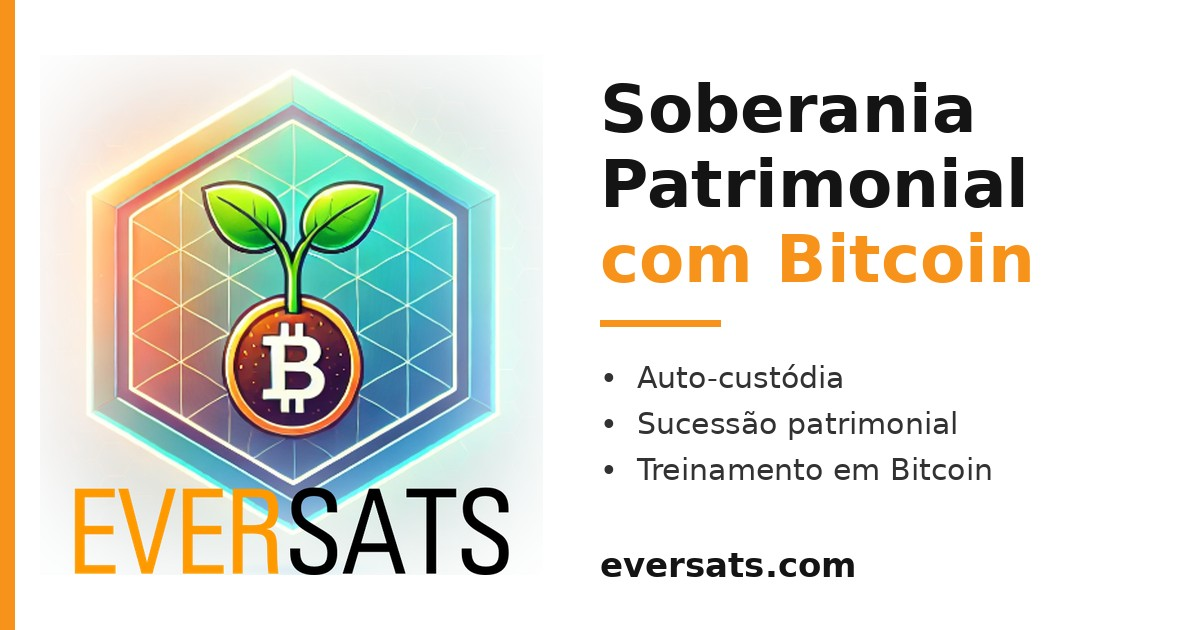
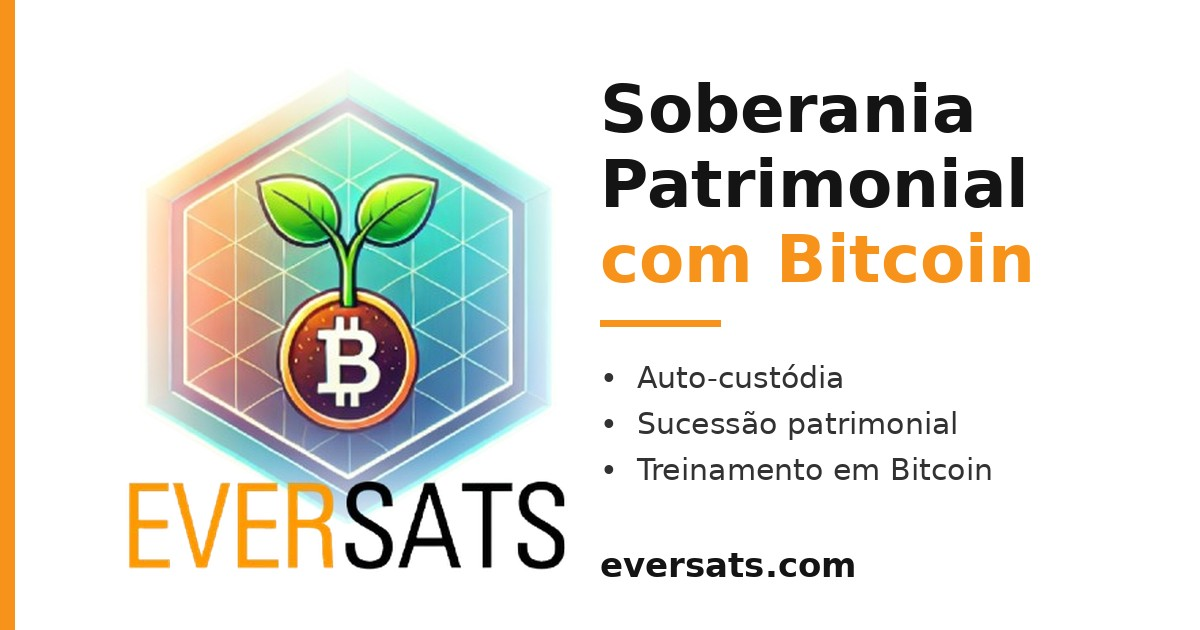
Add files via upload

Changed region(s): [[0.0308, 0.1206, 0.4933, 0.9349]]

diff --git a/faq.html b/faq.html
@@ -19,7 +19,7 @@
 <script type="application/ld+json">{"@context": "https://schema.org", "@type": "FAQPage", "mainEntity": [{"@type": "Question", "name": "O que é Bitcoin?", "acceptedAnswer": {"@type": "Answer", "text": "O Bitcoin é um dinheiro digital descentralizado que permite enviar valor diretamente entre pessoas, sem intermediários. Sua oferta é limitada a 21 milhões de unidades."}}, {"@type": "Question", "name": "O que é auto-custódia?", "acceptedAnswer": {"@type": "Answer", "text": "É guardar você mesmo as chaves privadas do seu Bitcoin, em carteiras pessoais, em vez de deixá-lo sob a guarda de uma corretora. Você ganha controle, privacidade e portabilidade, e assume a responsabilidade de protegê-lo."}}, {"@type": "Question", "name": "Qual a diferença entre deixar na corretora e guardar em carteira própria?", "acceptedAnswer": {"@type": "Answer", "text": "Na corretora, você tem um saldo e depende da empresa para acessá-lo. Na carteira própria, você controla as chaves e ninguém precisa autorizar seus movimentos. Em contrapartida, se perder as chaves, não há a quem recorrer."}}, {"@type": "Question", "name": "O que é seed phrase e por que nunca devo compartilhá-la?", "acceptedAnswer": {"@type": "Answer", "text": "É a sequência de palavras que permite recuperar sua carteira. Quem a tiver controla seu Bitcoin. Por isso, nunca a envie a ninguém. A EverSats jamais pede essa informação."}}, {"@type": "Question", "name": "Como garantir a segurança do meu Bitcoin?", "acceptedAnswer": {"@type": "Answer", "text": "Entendendo a tecnologia e usando boas práticas: carteira de hardware, backup da seed phrase guardado com segurança, teste de recuperação e, quando fizer sentido, multisig."}}, {"@type": "Question", "name": "O que é multisig?", "acceptedAnswer": {"@type": "Answer", "text": "É uma carteira que exige mais de uma assinatura para autorizar uma transação, o que reduz o risco de perda ou roubo de uma única chave."}}, {"@type": "Question", "name": "Por que planejar a sucessão do meu Bitcoin?", "acceptedAnswer": {"@type": "Answer", "text": "Porque, se só você sabe acessar o patrimônio, ele pode ficar inacessível à sua família quando você não puder mais fazê-lo. Um plano de sucessão organiza o acesso dos herdeiros com segurança."}}, {"@type": "Question", "name": "A EverSats tem acesso aos meus bitcoins?", "acceptedAnswer": {"@type": "Answer", "text": "Não. Você opera suas carteiras, e nós orientamos. Nunca pedimos nem guardamos suas chaves."}}, {"@type": "Question", "name": "A EverSats recomenda investimentos?", "acceptedAnswer": {"@type": "Answer", "text": "Não. Nosso trabalho é educacional e de consultoria em segurança, sem recomendações de compra ou venda e sem promessas de ganho."}}, {"@type": "Question", "name": "Como a EverSats pode ajudar?", "acceptedAnswer": {"@type": "Answer", "text": "Com treinamento em Bitcoin, consultoria em auto-custódia e plano de sucessão patrimonial, para todos os níveis de experiência. Fale conosco pelo WhatsApp ou pelo formulário."}}]}</script></head>
 <body>
 <header class="topbar"><div class="container">
-<a class="brand" href="/"><img src="logo-icon.png" alt="" width="40" height="40"><span>Ever<b>Sats</b></span></a>
+<a class="brand" href="/"><img src="logo-icon.png" alt="" width="59" height="56"><span><b>EVER</b>SATS</span></a>
 <ul class="menu"><li><a href="/#servicos">Serviços</a></li><li><a href="/#como-funciona">Como funciona</a></li><li><a href="/#sobre">Sobre</a></li><li><a href="blog.html">Blog</a></li><li><a href="faq.html">FAQ</a></li>
 <li><a class="btn" href="https://wa.me/5535999374642?text=Ol%C3%A1%2C%20vim%20pelo%20site%20da%20EverSats" target="_blank" rel="noopener">Agendar conversa</a></li></ul></div></header>
 <section class="pagehero"><div class="container"><span class="eyebrow">FAQ</span><h1>Perguntas frequentes</h1><p>Esclareça as principais dúvidas sobre Bitcoin, auto-custódia e os serviços da EverSats.</p></div></section><section class="section-padding"><div class="container faq"><details><summary>O que é Bitcoin?</summary><p>O Bitcoin é um dinheiro digital descentralizado que permite enviar valor diretamente entre pessoas, sem intermediários. Sua oferta é limitada a 21 milhões de unidades.</p></details><details><summary>O que é auto-custódia?</summary><p>É guardar você mesmo as chaves privadas do seu Bitcoin, em carteiras pessoais, em vez de deixá-lo sob a guarda de uma corretora. Você ganha controle, privacidade e portabilidade, e assume a responsabilidade de protegê-lo.</p></details><details><summary>Qual a diferença entre deixar na corretora e guardar em carteira própria?</summary><p>Na corretora, você tem um saldo e depende da empresa para acessá-lo. Na carteira própria, você controla as chaves e ninguém precisa autorizar seus movimentos. Em contrapartida, se perder as chaves, não há a quem recorrer.</p></details><details><summary>O que é seed phrase e por que nunca devo compartilhá-la?</summary><p>É a sequência de palavras que permite recuperar sua carteira. Quem a tiver controla seu Bitcoin. Por isso, nunca a envie a ninguém. A EverSats jamais pede essa informação.</p></details><details><summary>Como garantir a segurança do meu Bitcoin?</summary><p>Entendendo a tecnologia e usando boas práticas: carteira de hardware, backup da seed phrase guardado com segurança, teste de recuperação e, quando fizer sentido, multisig.</p></details><details><summary>O que é multisig?</summary><p>É uma carteira que exige mais de uma assinatura para autorizar uma transação, o que reduz o risco de perda ou roubo de uma única chave.</p></details><details><summary>Por que planejar a sucessão do meu Bitcoin?</summary><p>Porque, se só você sabe acessar o patrimônio, ele pode ficar inacessível à sua família quando você não puder mais fazê-lo. Um plano de sucessão organiza o acesso dos herdeiros com segurança.</p></details><details><summary>A EverSats tem acesso aos meus bitcoins?</summary><p>Não. Você opera suas carteiras, e nós orientamos. Nunca pedimos nem guardamos suas chaves.</p></details><details><summary>A EverSats recomenda investimentos?</summary><p>Não. Nosso trabalho é educacional e de consultoria em segurança, sem recomendações de compra ou venda e sem promessas de ganho.</p></details><details><summary>Como a EverSats pode ajudar?</summary><p>Com treinamento em Bitcoin, consultoria em auto-custódia e plano de sucessão patrimonial, para todos os níveis de experiência. Fale conosco pelo WhatsApp ou pelo formulário.</p></details></div></section><section class="band"><div class="container"><h2>Quer proteger o seu Bitcoin?</h2><p>Converse com a EverSats. A primeira conversa é para entender o seu caso, sem compromisso.</p><div class="actions" style="justify-content:center"><a class="btn" href="https://wa.me/5535999374642?text=Ol%C3%A1%2C%20vim%20pelo%20site%20da%20EverSats" target="_blank" rel="noopener">Falar no WhatsApp</a><a class="btn ghost" href="/#contato">Enviar mensagem</a></div></div></section>

diff --git a/privacidade.html b/privacidade.html
@@ -19,7 +19,7 @@
 </head>
 <body>
 <header class="topbar"><div class="container">
-<a class="brand" href="/"><img src="logo-icon.png" alt="" width="40" height="40"><span>Ever<b>Sats</b></span></a>
+<a class="brand" href="/"><img src="logo-icon.png" alt="" width="59" height="56"><span><b>EVER</b>SATS</span></a>
 <ul class="menu"><li><a href="/#servicos">Serviços</a></li><li><a href="/#como-funciona">Como funciona</a></li><li><a href="/#sobre">Sobre</a></li><li><a href="blog.html">Blog</a></li><li><a href="faq.html">FAQ</a></li>
 <li><a class="btn" href="https://wa.me/5535999374642?text=Ol%C3%A1%2C%20vim%20pelo%20site%20da%20EverSats" target="_blank" rel="noopener">Agendar conversa</a></li></ul></div></header>
 <section class="pagehero"><div class="container"><span class="eyebrow">Privacidade</span><h1>Política de Privacidade</h1><p>Última atualização: outubro de 2026.</p></div></section><section class="section-padding"><div class="container article"><h2>1. Quem somos</h2><p>A EverSats (eversats.com) é a controladora dos dados pessoais tratados neste site, nos termos da Lei Geral de Proteção de Dados (Lei nº 13.709/2018, a LGPD).</p><h2>2. Dados que coletamos</h2><p><strong>Formulário de contato:</strong> nome, e-mail, telefone (opcional) e o conteúdo da mensagem, fornecidos por você.<br><br><strong>Estatísticas de acesso:</strong> dados de navegação, como páginas visitadas, tipo de dispositivo e região aproximada, coletados pelo Google Analytics por meio de identificadores e cookies.<br><br><strong>Importante:</strong> nunca solicitamos seed phrase, chaves privadas ou senhas. Não as envie por nenhum canal.</p><h2>3. Para que usamos</h2><p>Responder ao seu contato, apresentar nossos serviços e entender como o site é utilizado para melhorá-lo. As bases legais são o consentimento (formulário) e o legítimo interesse (estatísticas).</p><h2>4. Compartilhamento</h2><p>Os dados do formulário são processados pelo Formspree (EUA), que os entrega a nós por e-mail. As estatísticas são processadas pelo Google. Não vendemos seus dados.</p><h2>5. Retenção</h2><p>Mantemos as mensagens pelo tempo necessário para atender sua solicitação e cumprir obrigações legais. Você pode pedir a exclusão a qualquer momento.</p><h2>6. Seus direitos</h2><p>Você pode solicitar confirmação do tratamento, acesso, correção, anonimização, portabilidade, exclusão e revogação do consentimento. Para exercer esses direitos, escreva para <a href="mailto:lamoglia@eversats.com">lamoglia@eversats.com</a> ou fale conosco pelo <a href="https://wa.me/5535999374642?text=Quero%20exercer%20meus%20direitos%20de%20privacidade" target="_blank" rel="noopener">WhatsApp</a>.</p><h2>7. Cookies</h2><p>Usamos cookies do Google Analytics para estatísticas. Você pode bloqueá-los nas configurações do seu navegador.</p><h2>8. Alterações</h2><p>Esta política pode ser atualizada. A data da última revisão consta no topo da página.</p></div></section>

diff --git a/styles.css b/styles.css
@@ -7,9 +7,9 @@ h2{font-size:clamp(1.5rem,3vw,2.1rem);color:var(--navy);margin:0 0 12px;line-hei
 .lead{color:var(--mut);max-width:680px;margin:0 0 36px}
 .section-padding{padding:72px 0}.bg-light{background:var(--bg)}
 .topbar{position:sticky;top:0;z-index:40;background:rgba(255,255,255,.96);backdrop-filter:blur(8px);border-bottom:1px solid var(--line)}
-.topbar .container{display:flex;align-items:center;justify-content:space-between;height:68px;gap:16px}
-.brand{display:flex;align-items:center;gap:10px;text-decoration:none;font-weight:800;font-size:1.35rem;color:var(--navy)}
-.brand img{height:40px;width:40px}.brand b{color:var(--or)}
+.topbar .container{display:flex;align-items:center;justify-content:space-between;height:80px;gap:16px}
+.brand{display:flex;align-items:center;gap:12px;text-decoration:none;font-weight:700;font-size:1.6rem;letter-spacing:.02em;color:var(--navy)}
+.brand img{height:56px;width:auto;display:block}.brand b{color:var(--or)}
 .menu{display:flex;gap:24px;align-items:center;list-style:none;margin:0;padding:0}
 .menu a{text-decoration:none;font-weight:500;font-size:.95rem;color:#334155}.menu a:hover{color:var(--or2)}
 .btn,.cta-button{display:inline-block;background:var(--or);color:#111;font:700 1rem Inter,system-ui,sans-serif;padding:12px 22px;border-radius:8px;text-decoration:none;border:0;cursor:pointer}
@@ -71,3 +71,4 @@ header:not(.topbar) .hero{padding:40px 20px;background:none}header:not(.topbar) 
 .faq details p{color:var(--mut);margin:12px 0 0}
 .photo{flex:none;width:140px;height:140px;border-radius:50%;object-fit:cover;object-position:center top;border:3px solid var(--or);background:var(--bg)}
 .soc{display:inline-flex;width:40px;height:40px;border-radius:50%;background:rgba(255,255,255,.08);align-items:center;justify-content:center;color:#cbd5e1;transition:.2s}.soc:hover{background:#0a66c2;color:#fff}.soc svg{width:18px;height:18px;fill:currentColor}.inl{width:15px;height:15px;fill:currentColor;vertical-align:-2px;margin-right:5px}
+@media(max-width:820px){.topbar .container{height:72px;gap:8px}.brand{font-size:1.15rem;gap:8px}.brand img{height:46px}.menu .btn{white-space:nowrap;padding:8px 12px;font-size:.8rem}}

diff --git a/blog.html b/blog.html
@@ -19,7 +19,7 @@
 </head>
 <body>
 <header class="topbar"><div class="container">
-<a class="brand" href="/"><img src="logo-icon.png" alt="" width="40" height="40"><span>Ever<b>Sats</b></span></a>
+<a class="brand" href="/"><img src="logo-icon.png" alt="" width="59" height="56"><span><b>EVER</b>SATS</span></a>
 <ul class="menu"><li><a href="/#servicos">Serviços</a></li><li><a href="/#como-funciona">Como funciona</a></li><li><a href="/#sobre">Sobre</a></li><li><a href="blog.html">Blog</a></li><li><a href="faq.html">FAQ</a></li>
 <li><a class="btn" href="https://wa.me/5535999374642?text=Ol%C3%A1%2C%20vim%20pelo%20site%20da%20EverSats" target="_blank" rel="noopener">Agendar conversa</a></li></ul></div></header>
 <section class="pagehero"><div class="container"><span class="eyebrow">Blog</span><h1>Blog da EverSats</h1><p>Artigos sobre Bitcoin, segurança patrimonial, auto-custódia e sucessão.</p></div></section><section class="section-padding bg-light"><div class="container"><div class="grid"><div class="card"><img class="cover" src="imagem-capa-blog-post1.jpg" alt="A origem do Bitcoin" loading="lazy"><h3><a href="blog-post1.html">O que é Bitcoin e como ele funciona</a></h3><p>Entenda as bases do Bitcoin, como ele funciona e por que guardar as próprias chaves faz diferença.</p><a class="more" href="blog-post1.html">Ler artigo →</a></div><div class="card"><img class="cover" src="imagem-capa-blog-post2.jpg" alt="Sistema financeiro e soberania patrimonial" loading="lazy"><h3><a href="blog-post2.html">A fragilidade do sistema financeiro tradicional</a></h3><p>Os riscos de um sistema centralizado e por que o Bitcoin atrai quem busca soberania patrimonial.</p><a class="more" href="blog-post2.html">Ler artigo →</a></div></div></div></section>

diff --git a/blog-post1.html b/blog-post1.html
@@ -19,7 +19,7 @@
 </head>
 <body>
 <header class="topbar"><div class="container">
-<a class="brand" href="/"><img src="logo-icon.png" alt="" width="40" height="40"><span>Ever<b>Sats</b></span></a>
+<a class="brand" href="/"><img src="logo-icon.png" alt="" width="59" height="56"><span><b>EVER</b>SATS</span></a>
 <ul class="menu"><li><a href="/#servicos">Serviços</a></li><li><a href="/#como-funciona">Como funciona</a></li><li><a href="/#sobre">Sobre</a></li><li><a href="blog.html">Blog</a></li><li><a href="faq.html">FAQ</a></li>
 <li><a class="btn" href="https://wa.me/5535999374642?text=Ol%C3%A1%2C%20vim%20pelo%20site%20da%20EverSats" target="_blank" rel="noopener">Agendar conversa</a></li></ul></div></header>
 <section class="pagehero"><div class="container"><span class="eyebrow">Blog EverSats</span><h1>O que é Bitcoin e como ele funciona</h1></div></section><section class="section-padding"><div class="container article"><a class="back" href="blog.html">← Voltar ao blog</a><p>Em um mundo de crises financeiras e incertezas políticas, cresce o interesse por formas de proteger o patrimônio que não dependam de uma única instituição. O Bitcoin é a mais conhecida delas. Mas o que ele é, como funciona e o que é preciso saber antes de usá-lo?</p>

diff --git a/blog-post2.html b/blog-post2.html
@@ -19,7 +19,7 @@
 </head>
 <body>
 <header class="topbar"><div class="container">
-<a class="brand" href="/"><img src="logo-icon.png" alt="" width="40" height="40"><span>Ever<b>Sats</b></span></a>
+<a class="brand" href="/"><img src="logo-icon.png" alt="" width="59" height="56"><span><b>EVER</b>SATS</span></a>
 <ul class="menu"><li><a href="/#servicos">Serviços</a></li><li><a href="/#como-funciona">Como funciona</a></li><li><a href="/#sobre">Sobre</a></li><li><a href="blog.html">Blog</a></li><li><a href="faq.html">FAQ</a></li>
 <li><a class="btn" href="https://wa.me/5535999374642?text=Ol%C3%A1%2C%20vim%20pelo%20site%20da%20EverSats" target="_blank" rel="noopener">Agendar conversa</a></li></ul></div></header>
 <section class="pagehero"><div class="container"><span class="eyebrow">Blog EverSats</span><h1>A fragilidade do sistema financeiro tradicional e a soberania patrimonial</h1></div></section><section class="section-padding"><div class="container article"><a class="back" href="blog.html">← Voltar ao blog</a><p>O sistema financeiro tradicional depende de instituições centralizadas, e isso o torna sensível a crises econômicas, decisões políticas e falhas tecnológicas. Entender esses riscos ajuda a decidir como proteger o patrimônio.</p>

diff --git a/treinamento.html b/treinamento.html
@@ -19,7 +19,7 @@
 </head>
 <body>
 <header class="topbar"><div class="container">
-<a class="brand" href="/"><img src="logo-icon.png" alt="" width="40" height="40"><span>Ever<b>Sats</b></span></a>
+<a class="brand" href="/"><img src="logo-icon.png" alt="" width="59" height="56"><span><b>EVER</b>SATS</span></a>
 <ul class="menu"><li><a href="/#servicos">Serviços</a></li><li><a href="/#como-funciona">Como funciona</a></li><li><a href="/#sobre">Sobre</a></li><li><a href="blog.html">Blog</a></li><li><a href="faq.html">FAQ</a></li>
 <li><a class="btn" href="https://wa.me/5535999374642?text=Ol%C3%A1%2C%20vim%20pelo%20site%20da%20EverSats" target="_blank" rel="noopener">Agendar conversa</a></li></ul></div></header>
 <section class="hero"><div class="container"><span class="eyebrow">Treinamento em Bitcoin</span><h1>Treinamento em Bitcoin: da primeira compra à <em>transação segura</em></h1><p>Aprenda como o Bitcoin funciona e como comprar, guardar e movimentar seus bitcoins sem cair em golpes. Aulas práticas e teóricas, para todos os níveis.</p>

diff --git a/consultoria.html b/consultoria.html
@@ -19,7 +19,7 @@
 </head>
 <body>
 <header class="topbar"><div class="container">
-<a class="brand" href="/"><img src="logo-icon.png" alt="" width="40" height="40"><span>Ever<b>Sats</b></span></a>
+<a class="brand" href="/"><img src="logo-icon.png" alt="" width="59" height="56"><span><b>EVER</b>SATS</span></a>
 <ul class="menu"><li><a href="/#servicos">Serviços</a></li><li><a href="/#como-funciona">Como funciona</a></li><li><a href="/#sobre">Sobre</a></li><li><a href="blog.html">Blog</a></li><li><a href="faq.html">FAQ</a></li>
 <li><a class="btn" href="https://wa.me/5535999374642?text=Ol%C3%A1%2C%20vim%20pelo%20site%20da%20EverSats" target="_blank" rel="noopener">Agendar conversa</a></li></ul></div></header>
 <section class="hero"><div class="container"><span class="eyebrow">Consultoria em Auto-Custódia</span><h1>Consultoria em <em>auto-custódia</em> de Bitcoin</h1><p>Tenha o controle real do seu patrimônio: carteiras de hardware, multisig e backups testados, configurados com acompanhamento especializado.</p>

diff --git a/plano-sucessao.html b/plano-sucessao.html
@@ -19,7 +19,7 @@
 </head>
 <body>
 <header class="topbar"><div class="container">
-<a class="brand" href="/"><img src="logo-icon.png" alt="" width="40" height="40"><span>Ever<b>Sats</b></span></a>
+<a class="brand" href="/"><img src="logo-icon.png" alt="" width="59" height="56"><span><b>EVER</b>SATS</span></a>
 <ul class="menu"><li><a href="/#servicos">Serviços</a></li><li><a href="/#como-funciona">Como funciona</a></li><li><a href="/#sobre">Sobre</a></li><li><a href="blog.html">Blog</a></li><li><a href="faq.html">FAQ</a></li>
 <li><a class="btn" href="https://wa.me/5535999374642?text=Ol%C3%A1%2C%20vim%20pelo%20site%20da%20EverSats" target="_blank" rel="noopener">Agendar conversa</a></li></ul></div></header>
 <section class="hero"><div class="container"><span class="eyebrow">Sucessão Patrimonial com Bitcoin</span><h1>Plano de sucessão para o seu <em>Bitcoin</em></h1><p>Garanta que seu patrimônio digital chegue aos seus herdeiros com segurança, sem depender de uma única pessoa nem expor suas chaves.</p>

diff --git a/index.html b/index.html
@@ -19,7 +19,7 @@
 </head>
 <body>
 <header class="topbar"><div class="container">
-<a class="brand" href="/"><img src="logo-icon.png" alt="" width="40" height="40"><span>Ever<b>Sats</b></span></a>
+<a class="brand" href="/"><img src="logo-icon.png" alt="" width="59" height="56"><span><b>EVER</b>SATS</span></a>
 <ul class="menu"><li><a href="/#servicos">Serviços</a></li><li><a href="/#como-funciona">Como funciona</a></li><li><a href="/#sobre">Sobre</a></li><li><a href="blog.html">Blog</a></li><li><a href="faq.html">FAQ</a></li>
 <li><a class="btn" href="https://wa.me/5535999374642?text=Ol%C3%A1%2C%20vim%20pelo%20site%20da%20EverSats" target="_blank" rel="noopener">Agendar conversa</a></li></ul></div></header>
 <section class="hero"><div class="container hero-grid"><div>
